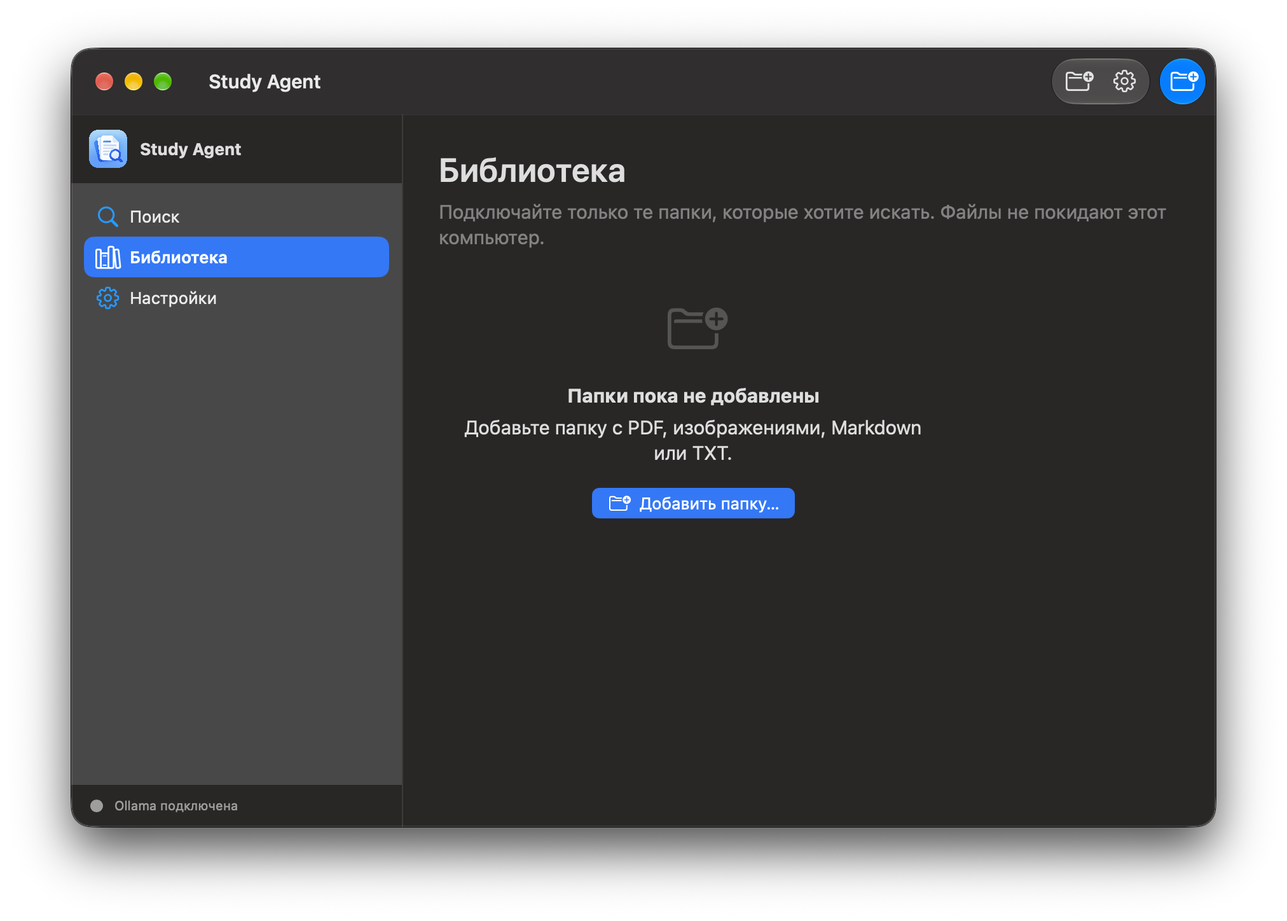
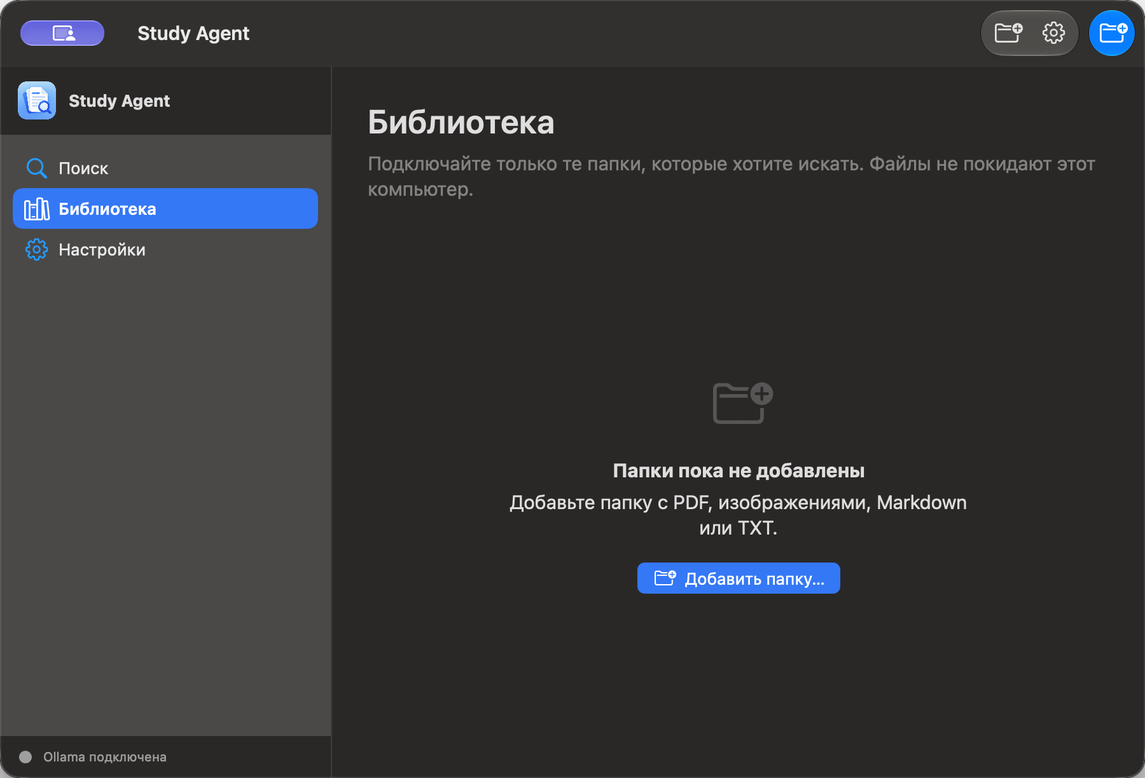
docs: update Beta 3 README and QA screenshots

diff --git a/wiki/current-state.md b/wiki/current-state.md
@@ -1,37 +1,41 @@
 # Текущее состояние
 
-Снимок на 2026-10-24. Последний опубликованный выпуск — **Study Agent v1 Beta 2** (`v1.0.0-beta.2`, macOS arm64). Основные функции Beta 2 уже выходят за рамки начального каркаса. Изменения Liquid Glass и Welcome Experience из [PR #7](https://github.com/gregkorneev-BMSTU/study-agent/pull/7) включены в `main`, но ещё не опубликованы в DMG Beta 2.
+Снимок на 2026-10-25. Последний опубликованный выпуск — **Study Agent v1 Beta 3** (`v1.0.0-beta.3`, версия 1.0.0, build 3), macOS arm64. [Release](https://github.com/gregkorneev-BMSTU/study-agent/releases/tag/v1.0.0-beta.3) содержит DMG и файл SHA-256. Приложение требует macOS 14+ на Apple Silicon; сборка подписана ad-hoc и не нотариализована.
 
-Собственный исходный код Study Agent распространяется под MIT License. Третьи стороны, модельные веса и иконографика не включаются в это заявление автоматически; см. [LICENSE](../LICENSE) и [THIRD_PARTY_NOTICES](../THIRD_PARTY_NOTICES.md). Сборочный процесс macOS копирует уведомления в приложение; Windows-дистрибутив и происхождение части графических ресурсов требуют дополнительной проверки.
+Собственный исходный код Study Agent распространяется под MIT License. Третьи стороны, модельные веса и графические материалы сохраняют собственные условия; см. [LICENSE](../LICENSE) и [THIRD_PARTY_NOTICES](../THIRD_PARTY_NOTICES.md). macOS-сборка копирует лицензионные уведомления build-окружения в приложение. Windows-дистрибутив и происхождение части графики ещё требуют отдельной проверки.
 
-## В Beta 2
+## Возможности Beta 3
 
-- Нативное приложение SwiftUI/Xcode (deployment target macOS 14) с `HSplitView`, поиском, библиотекой, отдельным окном настроек, SF Symbols, системными меню и Menu Bar Extra.
-- Общие Python-сервисы упакованы в PyInstaller helper и доступны SwiftUI через JSON Lines bridge. PySide6 UI — отдельный прототип/кандидат для будущей Windows-оболочки; Windows-сборка ещё не готова.
-- Поиск по выбранным локальным TXT/Markdown, PDF и изображениям; извлечение PDF text layer; OCR Chandra предусмотрен при наличии runtime, но аудит текущей macOS-сборки не обнаружил пакет `chandra`, поэтому OCR в распространяемой `.app` не подтверждён; ответы локальной Ollama по найденным выдержкам. Полного постоянного индекса и RAG пока нет.
-- SetupWizard проверяет систему, backend, Ollama и модели; позволяет перейти к установке Ollama, загрузить Qwen 3.5 4B через локальный API и отдельно установить Chandra OCR с прогрессом и отменой. Все загрузки начинаются только после действия пользователя; веса Chandra не включены в DMG.
-- Настройки языка, темы и доступности хранятся локально. Пользовательские документы, индексы и модели не добавляются в Git.
+- Нативный SwiftUI/Xcode клиент с `NavigationSplitView`, поиском, библиотекой, настройками, системными меню, Menu Bar Extra, фирменной иконкой и About-панелью с версией и ссылкой на разработчика.
+- Три welcome-экрана для первого запуска, затем техническая настройка и диагностика в той же панели. Знакомство можно пройти снова из «Справки»; диагностику открыть из настроек.
+- Русский и английский интерфейс, сохранение выбранного языка, светлая/тёмная/системная темы и настройки повышенного контраста и уменьшения движения.
+- Подключение пользовательских папок и локальный поиск по TXT, Markdown, PDF с текстовым слоем. Найденный исходный файл можно открыть из результата.
+- Ответы локальной Ollama по найденным выдержкам. Для этого нужна запущенная Ollama и выбранная локальная модель; Qwen 3.5 4B мастер предлагает загрузить только после действия пользователя.
+- Python backend и PDFium упакованы в приложение. Chandra OCR runtime в Beta 3 включён; диагностика упакованного helper подтвердила runtime, но веса модели отсутствуют. Веса загружаются отдельно и не входят в DMG.
+- Исходный код опубликован под MIT; лицензии и уведомления сторонних компонентов включаются в приложение.
 
-## В `main`, ещё не включено в Beta 2
+## Проверка Beta 3
 
-- Замена `HSplitView` на `NavigationSplitView`, проверенная в изолированной сборке на macOS 27; deployment target остаётся macOS 14.
-- Три страницы Welcome Experience перед существующим SetupWizard; оба этапа показываются в одном sheet. Beta 1/2 с сохранённым `setup.completed.v1` не получают новое приветствие.
-- Заголовки меню macOS обновляются по выбранному языку. Объектные `NSMenuItem.title` менялись в QA, но визуальное подтверждение и доступность меню ещё не получены: UI Automation продолжал сообщать английские подписи, а системный screenshot захватывал lock screen.
-- Исправление CI для отсутствовавшей OCR-тесту зависимости `tqdm` включено в `main`. GitHub Actions на Python 3.12/3.13 прошёл: [run 40129447523](https://github.com/gregkorneev-BMSTU/study-agent/actions/runs/40129447523).
+- GitHub Actions для commit [`26189a2`](https://github.com/gregkorneev-BMSTU/study-agent/commit/26189a2) прошёл pytest и Ruff на Python 3.12 и 3.13: [CI run 40133808873](https://github.com/gregkorneev-BMSTU/study-agent/actions/runs/40133808873).
+- Локально `ruff check .` прошёл, `pytest --ignore=tests/test_switch.py` — 31 passed. Полный локальный `pytest -q` аварийно завершил Python в `tests/test_switch.py` при создании Qt Cocoa `QApplication`; CI на Ubuntu прошёл полный набор.
+- Xcode Debug и Release arm64 сборки прошли на macOS 27 SDK при deployment target macOS 14. Сборка выдаёт предупреждение Swift 6 о захвате `BackendProcessControl` как non-Sendable; приложение собрано. На macOS 14/15 отдельно не запускалось.
+- Beta 3 DMG: 228,131,619 bytes; `hdiutil verify` подтвердил контрольную сумму образа. В корне смонтированного образа находятся `.DS_Store`, `Study Agent.app` и `Applications → /Applications`. Версии в Info.plist — 1.0.0 (3).
+- При строгой проверке подписи непосредственно на смонтированном HFS+ образе `codesign` обнаруживает FinderInfo xattrs на вложенных файлах лицензий. После копирования `.app` из образа в обычную папку строгая проверка подписи проходит; затем приложение запускается. DMG не нотариализован, а Gatekeeper на другом Mac не проверялся.
+- Встроенный `diagnose_backend` вернул `backend_healthy=true`, `pdf_available=true`, `ocr_runtime_available=true`, `ocr_weights_state=missing`. Установка Chandra weights и OCR inference не запускались.
+- Реальные скриншоты актуального приложения сохранены в [`artifacts/readme`](../artifacts/readme/): Search и Library в тёмной теме, Settings в светлой и тёмной. Полный keyboard-only прогон, VoiceOver и измерение CPU/RAM/FPS не выполнялись.
 
-## Выпуск и проверка
+## Известные ограничения
 
-- Beta 2: Xcode version 1.0.0 (build 2), ad-hoc DMG для macOS arm64. Проверки DMG и ограничения подписи описаны в [инструкции выпуска](macos-release.md) и [тестировании](testing.md). Developer ID-подписи и нотариализации нет.
-- В PR #7 локальные Xcode Debug/Release сборки прошли на macOS 27 с deployment target macOS 14. `pytest --ignore=tests/test_switch.py` — 31 passed, Ruff прошёл. Полный локальный pytest исключал один Qt Cocoa-тест, который аварийно завершает Python в этой среде; полная pytest-матрица GitHub CI прошла.
-- Welcome UI проверен в изолированной Release-копии на macOS 27: переходы, русский/английский текст и запуск диагностики. Скриншоты не удалось сохранить; VoiceOver, полный keyboard-only прогон и macOS 14/15 не проверялись.
+- Заголовки верхнего уровня стандартного меню macOS (`File`, `Edit`, `View`, `Window`, `Help`) на проверенном Mac остались на языке системы, хотя выбран русский язык приложения. Элементы содержимого приложения локализованы. Меню нужно отдельно исправить и перепроверить.
+- Постоянный индекс, инкрементальная индексация, локальные эмбеддинги и полноценный семантический RAG со страницами/цитатами не реализованы.
+- DOCX, `IU5HubSource`, MCP-инструменты, Windows-установщик и проверенная Windows-сборка не входят в выпуск.
+- OCR inference с загруженными весами не проверен; точность на русской печати, рукописи, таблицах и формулах, время и расход памяти не измерялись.
+- Нет Developer ID-подписи и нотариализации. Чистая установка, Gatekeeper и доступность на другом Mac требуют проверки.
 
-## Ещё не реализовано или не подтверждено
+## История текущей версии
 
-- Постоянный индекс, инкрементальная индексация, эмбеддинги, гибридный семантический поиск и полноценный RAG с проверяемыми ссылками/страницами.
-- DOCX, IU5HubSource, MCP-инструменты, прогресс полной индексации и Windows-установщик/проверенная Windows-сборка.
-- Точность, скорость и память Chandra на русской печати, рукописи, формулах и таблицах на целевых компьютерах; OCR inference с реально скачанными весами в последнем QA.
-- Чистая установка и Gatekeeper на другом Mac, нотариализация, VoiceOver и физическая проверка доступности на минимальной поддерживаемой macOS.
+- Beta 3 включает нативную `NavigationSplitView`, onboarding и диагностику в одной панели, обновление README и QA-снимков, MIT-уведомления в приложении и упакованный Chandra runtime.
+- В Liquid Glass настройках удалена бесполезная информационная плашка и управление прозрачностью всего окна. Sidebar и toolbar используют системный `regular` материал по умолчанию; приложение не подменяет системный регулятор и не задаёт отдельную интенсивность.
+- Полный diff изменений после Beta 2 доступен в истории Git: [release tag](https://github.com/gregkorneev-BMSTU/study-agent/releases/tag/v1.0.0-beta.3).
 
-См. [архитектуру](architecture.md), [дорожную карту](roadmap.md), [дизайн-систему](design-system.md) и [план проверок](testing.md).
-
-В PR #9 (`feature/macos-glass-appearance`) удаляется плашка Liquid Glass из настроек. Приложение использует системные sidebar и toolbar без собственной настройки прозрачности; macOS применяет системный внешний вид и доступность.
+См. [архитектуру](architecture.md), [дорожную карту](roadmap.md), [дизайн-систему](design-system.md), [инструкцию выпуска](macos-release.md) и [план проверок](testing.md).

diff --git a/wiki/design-system.md b/wiki/design-system.md
@@ -2,19 +2,19 @@
 
 ## Направление
 
-Интерфейс использует спокойную системную иерархию: фирменный синий выделяет основные действия и ссылки, а фоны, карточки и результаты остаются нейтральными. Панели непрозрачны. Qt Widgets не предоставляет публичного эквивалента системным материалам SwiftUI/UIKit/AppKit, поэтому приложение не имитирует стекло blur-эффектами, бликами или декоративными градиентами.
+PySide6-интерфейс использует спокойную иерархию: фирменный синий выделяет основные действия и ссылки, а фоны, карточки и результаты остаются нейтральными. Для него выбран вариант без искусственного стекла: Qt Widgets не предоставляет публичного эквивалента системным материалам SwiftUI/AppKit, поэтому Qt-оболочка не имитирует их blur-эффектами, бликами или декоративными градиентами.
 
-Цветовая иерархия следует [Apple HIG Materials](https://developer.apple.com/design/human-interface-guidelines/materials/) и [обзору Liquid Glass](https://developer.apple.com/documentation/TechnologyOverviews/liquid-glass/): верхние уровни интерфейса отделены от контента, а материал не мешает чтению и взаимодействию. Для этого настольного интерфейса выбран более спокойный вариант без искусственного стекла.
+Цветовая иерархия следует [Apple HIG Materials](https://developer.apple.com/design/human-interface-guidelines/materials/) и [руководству Apple по Liquid Glass](https://developer.apple.com/documentation/technologyoverviews/adopting-liquid-glass): верхние уровни интерфейса отделены от контента, а материал не мешает чтению и взаимодействию. В SwiftUI используются системные материалы для sidebar и toolbar; в Qt-оболочке искусственные стеклянные эффекты не имитируются.
 
 ### Нативный macOS UI (SwiftUI)
 
-Нативная оболочка использует `NavigationSplitView`, `.listStyle(.sidebar)`, `ToolbarItem`, системную Settings scene, обычные SwiftUI controls и SF Symbols. На macOS 26+ системные sidebar, title bar и toolbar получают актуальный системный материал автоматически; приложение не накладывает свой blur, `glassEffect`, фиксированную прозрачность или декор. Для macOS 14–25 остаётся тот же семантический интерфейс с материалами и поведением, доступными системной версии. Liquid Glass ограничен слоем навигации и управления; результаты, списки документов и ответы остаются обычным читаемым контентом.
+Нативная оболочка использует `NavigationSplitView`, `.listStyle(.sidebar)`, `ToolbarItem`, системную Settings scene, обычные SwiftUI controls и SF Symbols. На macOS 26+ системные sidebar, title bar и toolbar получают актуальный системный Liquid Glass автоматически; приложение не накладывает свой blur, `glassEffect`, фиксированную прозрачность или декор. Apple называет обычный вариант материала `regular` и рекомендует его для большинства системных компонентов с текстом, включая боковые панели и popover. Study Agent не задаёт вариант или интенсивность отдельно для себя: системный вид и настройки доступности определяет macOS. Для macOS 14–25 остаётся тот же семантический интерфейс с материалами и поведением, доступными системной версии. Liquid Glass ограничен слоем навигации и управления; результаты, списки документов и ответы остаются обычным читаемым контентом.
 
 Настройки открываются через системную Settings scene (меню приложения, toolbar и Menu Bar Extra), а не как третий раздел главного sidebar. Sidebar содержит фирменную иконку с названием Study Agent и разделы поиска и библиотеки. Системная навигация отвечает за скрытие боковой панели, адаптацию ширины, accent color и состояния окна. Действие добавления папки показывается один раз в toolbar библиотеки; пустое состояние сохраняет контекстную кнопку.
 
 Настройка Reduce Motion приложения остаётся доступной и учитывает системный `accessibilityReduceMotion`. Увеличенный контраст приложения учитывает системный `colorSchemeContrast`. Материалы и нативные controls оставлены системными, чтобы Reduce Transparency, светлая/тёмная тема и активность окна могли применяться macOS. Программная сборка для macOS 14 сохраняет deployment target; Liquid Glass API, доступные только на более новых системах, здесь не требуются.
 
-Отдельного раздела Liquid Glass и пользовательских настроек прозрачности в Study Agent нет. Sidebar, toolbar и стандартные элементы управления оставлены системными SwiftUI-компонентами: на поддерживаемой macOS они автоматически принимают системное оформление и выбранный внешний вид Liquid Glass. Приложение не задаёт непрозрачность окна и не переопределяет системную интенсивность; при первом запуске используется обычный системный вид macOS. Reduce Transparency и другие настройки доступности продолжают обрабатываться системой.
+Отдельного раздела Liquid Glass и пользовательских настроек прозрачности в Study Agent нет. Удалённая информационная плашка не нужна: sidebar, toolbar и стандартные элементы управления оставлены системными SwiftUI-компонентами и автоматически принимают штатный вид macOS. Для главных компонентов применяется системный `regular` вариант по умолчанию; приложение не задаёт непрозрачность окна и не переопределяет глобальный внешний вид macOS. Reduce Transparency и другие настройки доступности продолжают обрабатываться системой.
 
 ## Токены PySide6
 

diff --git a/wiki/testing.md b/wiki/testing.md
@@ -8,7 +8,7 @@
 
 Для v1 Beta 1 добавлены unit-тесты команды `diagnose_backend` в JSON Lines bridge: проверяется формат ответа и определение доступности библиотек без запуска или загрузки весов Chandra. Мастер SwiftUI, системные действия Ollama, загрузка модели и оформление Finder требуют отдельной проверки на реальном Mac. Стандартные Python-тесты не скачивают модели.
 
-## Открытый PR #7 — macOS навигация, onboarding и CI
+## PR #7 — macOS навигация, onboarding и CI (включён в Beta 3)
 
 - В отдельной Xcode сборке проверены `NavigationSplitView`, переключение Search/Library и отсутствие пустой области. Debug/Release собраны на macOS 27 с deployment target macOS 14; проверка macOS 14/15 не проводилась.
 - В QA Release UI пройдены три welcome-страницы, английский/русский текст и переход в технический SetupWizard в том же sheet. Реальные скриншоты не сохранены, потому что системный захват экрана возвращал lock screen. VoiceOver, полный keyboard-only сценарий и Reduce Motion не прошли отдельный аудит.
@@ -76,3 +76,14 @@ Dock-иконка macOS 2026-10-24: удалено ручное назначен
 - `scripts/build_macos_dmg.sh --mode development --suffix beta.2` собрал Xcode Release, arm64 Python helper с OCR runtime и DMG. В `Info.plist`: версия `1.0.0`, build `2`. Размер DMG — 227,682,996 bytes. `hdiutil verify` подтвердил целостность; корень образа содержит приложение, `Applications → /Applications` и `.DS_Store`.
 - `codesign --verify --deep --strict` подтвердил подпись смонтированного `.app`; SwiftUI-приложение из образа запускалось в локальной проверке. Визуально проверено центрирование пустого состояния библиотеки. Helper `diagnose_backend` вернул `backend_healthy=true`, `pdf_available=true`, `ocr_runtime_available=true`, `ocr_weights_state=missing`. Веса Chandra не скачивались, OCR inference не запускался.
[1 lines of base64/hex data omitted]
+
+## Проверка v1 Beta 3 — 2026-10-25
+
+- GitHub Actions run [40133808873](https://github.com/gregkorneev-BMSTU/study-agent/actions/runs/40133808873) завершился успешно: Python 3.12/3.13, полный `pytest` и Ruff. Локальный `.venv/bin/python -m ruff check .` прошёл; `.venv/bin/python -m pytest -q --ignore=tests/test_switch.py` — **31 passed**. Полный локальный pytest завершил Python с `Fatal Python error: Aborted` при создании Cocoa `QApplication` в `tests/test_switch.py`.
+- Xcode Debug и Release arm64 собраны на macOS 27 SDK с deployment target 14.0. Swift compiler выдал предупреждение о `BackendProcessControl` без `Sendable`; сборки завершились успешно. macOS 14/15 не проверялись.
+- 25.10.2026 приложение заново собрано скриптом `scripts/build_macos_native_app.sh` в `/tmp/study-agent-liquid-glass-build` и запущено из этой копии. В Settings через accessibility tree и реальный скриншот проверено: отдельной секции/плашки Liquid Glass нет; системные группы настроек и controls отображаются штатно. Запущенная версия — Beta 3 build 3; исходники не добавляют собственный параметр прозрачности окна.
+- DMG `StudyAgent-v1.0.0-beta.3-macos-arm64.dmg`: **228,131,619 bytes**, версия Info.plist `1.0.0 (3)`, `hdiutil verify` — VALID. Образ содержит приложение, символьную ссылку `Applications → /Applications` и `.DS_Store`.
+- На смонтированном HFS+ DMG строгий `codesign --verify --deep --strict` сообщил о FinderInfo xattrs на вложенных лицензионных файлах. После копирования приложения в отдельную папку с `ditto --noextattr --norsrc` строгая проверка подписи прошла. Это не проверка Gatekeeper или Finder drag-install на чистом Mac.
+- Встроенный helper ответил на `diagnose_backend`: backend и PDF доступны, `ocr_runtime_available=true`, `ocr_weights_state=missing`. Веса Chandra не скачивались; OCR inference не запускался.
+- Реальные скриншоты Release app сохранены в `../artifacts/readme/`: поиск и библиотека тёмной темы, настройки тёмной и светлой темы. При проверке русскоязычного интерфейса системные заголовки верхнего меню оставались на английском языке macOS; синхронизация заголовков меню с языком приложения требует исправления.
+- Использование CPU/RAM/FPS, VoiceOver, полного keyboard-only взаимодействия, Reduce Transparency, чистая установка и Gatekeeper на другом компьютере не проверялись. Не заявлять измеренные FPS или совместимость, не проверенную физически.

diff --git a/wiki/chandra-ocr.md b/wiki/chandra-ocr.md
@@ -21,11 +21,11 @@ python -m pip install '.[ocr]'
 - Код Chandra опубликован под Apache 2.0; лицензия Study Agent MIT его не заменяет.
 - Для весов закреплённой модели есть отдельная **Modified OpenRAIL-M**. Приложение не включает и не распространяет веса: каждый пользователь явно скачивает их на свой компьютер. Перед установкой из приложения доступна ссылка на лицензию закреплённой ревизии. Соблюдать нужно все условия самой лицензии.
 - В тексте лицензии есть ограничения для организаций с выручкой/финансированием выше $2 млн (кроме личного использования или исследований), для конкурирующих с Datalab сервисов, требования атрибуции и Share-a-Like-условие для Output. README Chandra отдельно требует лицензию для коммерческого self-hosting. Эти условия могут касаться результатов OCR; Study Agent не определяет их соотношение с правами на документы пользователя. Перед распространением OCR-результатов или любым сомнительным сценарием нужно проверить права на исходный документ и обратиться к Datalab или юристу.
-- Текущий аудит macOS PyInstaller helper не обнаружил `chandra` Python-пакет внутри `.app`, хотя OCR-зависимости установлены в build-окружении. Поэтому OCR в собранном приложении не подтверждён: наличие runtime нужно исправить и проверить отдельной задачей до обещания этой возможности в релизе.
+- В Beta 3 `diagnose_backend` внутри извлечённого macOS приложения вернул `ocr_runtime_available=true`; Chandra runtime включён в helper. Модельные веса не включены, статус диагностики — `missing`. OCR inference с загруженными весами ещё не проверялся, поэтому качество распознавания не подтверждено.
 - Не подключать облачный Datalab API как fallback. Документы передаются только локальному процессу Chandra.
 
 Исходники и тексты лицензий: [Chandra](https://github.com/datalab-to/chandra), [лицензия кода Chandra](https://github.com/datalab-to/chandra/blob/master/LICENSE), [закреплённая модель и её LICENSE](https://huggingface.co/datalab-to/chandra-ocr-2/tree/af93b47dba1b47b6640c86ccf487ed2260ab9a09), [сводка лицензий Study Agent](../THIRD_PARTY_NOTICES.md).
 
 ## Не проверено
 
-Модель не загружалась и не запускалась в рамках реализации. Не проведены измерения времени/памяти, а также проверка точности на русской печати, рукописи, формулах и таблицах на Apple Silicon и Windows. Порог 32 символа — первичное эвристическое решение, его нужно калибровать на разрешённой тестовой выборке. Ссылки на страницы пока присутствуют в извлечённом Markdown, но UI поиска ещё не показывает номер страницы как отдельное поле.
+Веса модели не загружались и inference не запускался в проверке Beta 3. Не проведены измерения времени/памяти, а также проверка точности на русской печати, рукописи, формулах и таблицах на Apple Silicon и Windows. Порог 32 символа — первичное эвристическое решение, его нужно калибровать на разрешённой тестовой выборке. Ссылки на страницы пока присутствуют в извлечённом Markdown, но UI поиска ещё не показывает номер страницы как отдельное поле.

diff --git a/wiki/onboarding.md b/wiki/onboarding.md
@@ -17,10 +17,10 @@
 
 `FirstRunPresentation` управляет `.welcome` и `.setup` как стадиями одной модальной панели. Так welcome и технический мастер не представляются одновременно. Отдельная системная Settings scene не открывается поверх знакомства; существующая настройка и диагностика запускаются сразу следующим шагом после третьей страницы.
 
-## Двуязычный интерфейс меню
+## Локализация и меню
 
-Тексты Welcome Experience используют существующий `L10n`. Выбранный язык сохраняется в `general/language`. Изменение заголовков стандартных верхних меню AppKit (`File`, `Edit`, `View`, `Window`, `Help`) выполняется после создания главного NSMenu; название приложения Study Agent остаётся брендом и не переводится. SwiftUI-команды внутри этих меню продолжают использовать существующий список локализаций.
+Тексты Welcome Experience используют существующий `L10n`. Выбранный язык сохраняется в `general/language`. SwiftUI-команды внутри меню используют локализованные названия. Код пытается менять заголовки стандартных верхних меню AppKit (`File`, `Edit`, `View`, `Window`, `Help`) после создания главного NSMenu; название приложения Study Agent остаётся брендом и не переводится. Однако визуальная проверка Beta 3 на Mac с русским языком приложения показала стандартные заголовки на английском языке системы. Синхронизация их языка с настройкой приложения не подтверждена и остаётся открытой проблемой.
 
 ## Ограничения QA
 
-Реальный UI проверяется на macOS 27; deployment target остаётся macOS 14. Accessibility tree подтверждает доступные подписи страниц, кнопки и индикатора `Шаг N из 3`/`Step N of 3`. Во время QA AppKit `NSMenuItem.title` менялся по выбранному языку, но accessibility snapshot продолжал сообщать английские названия меню; визуальную локализацию верхнего меню следует проверить отдельно. Физический аудит VoiceOver, клавиатурной навигации на всех шагах и Reduce Motion также должен выполняться отдельно от визуального smoke test. Скриншоты реального Release UI и ограничения текущей проверки лежат в [отчёте QA onboarding](../artifacts/macos-onboarding-qa/README.md).
+Реальный UI проверяется на macOS 27; deployment target остаётся macOS 14. Accessibility tree подтверждает доступные подписи страниц, кнопки и индикатора `Шаг N из 3`/`Step N of 3`. Скриншоты Beta 3 показывают русскую область приложения при английских заголовках стандартного меню macOS. Физический аудит VoiceOver, клавиатурной навигации на всех шагах и Reduce Motion также должен выполняться отдельно от визуального smoke test. Скриншоты реального Release UI и ограничения текущей проверки лежат в [отчёте QA onboarding](../artifacts/macos-onboarding-qa/README.md).
